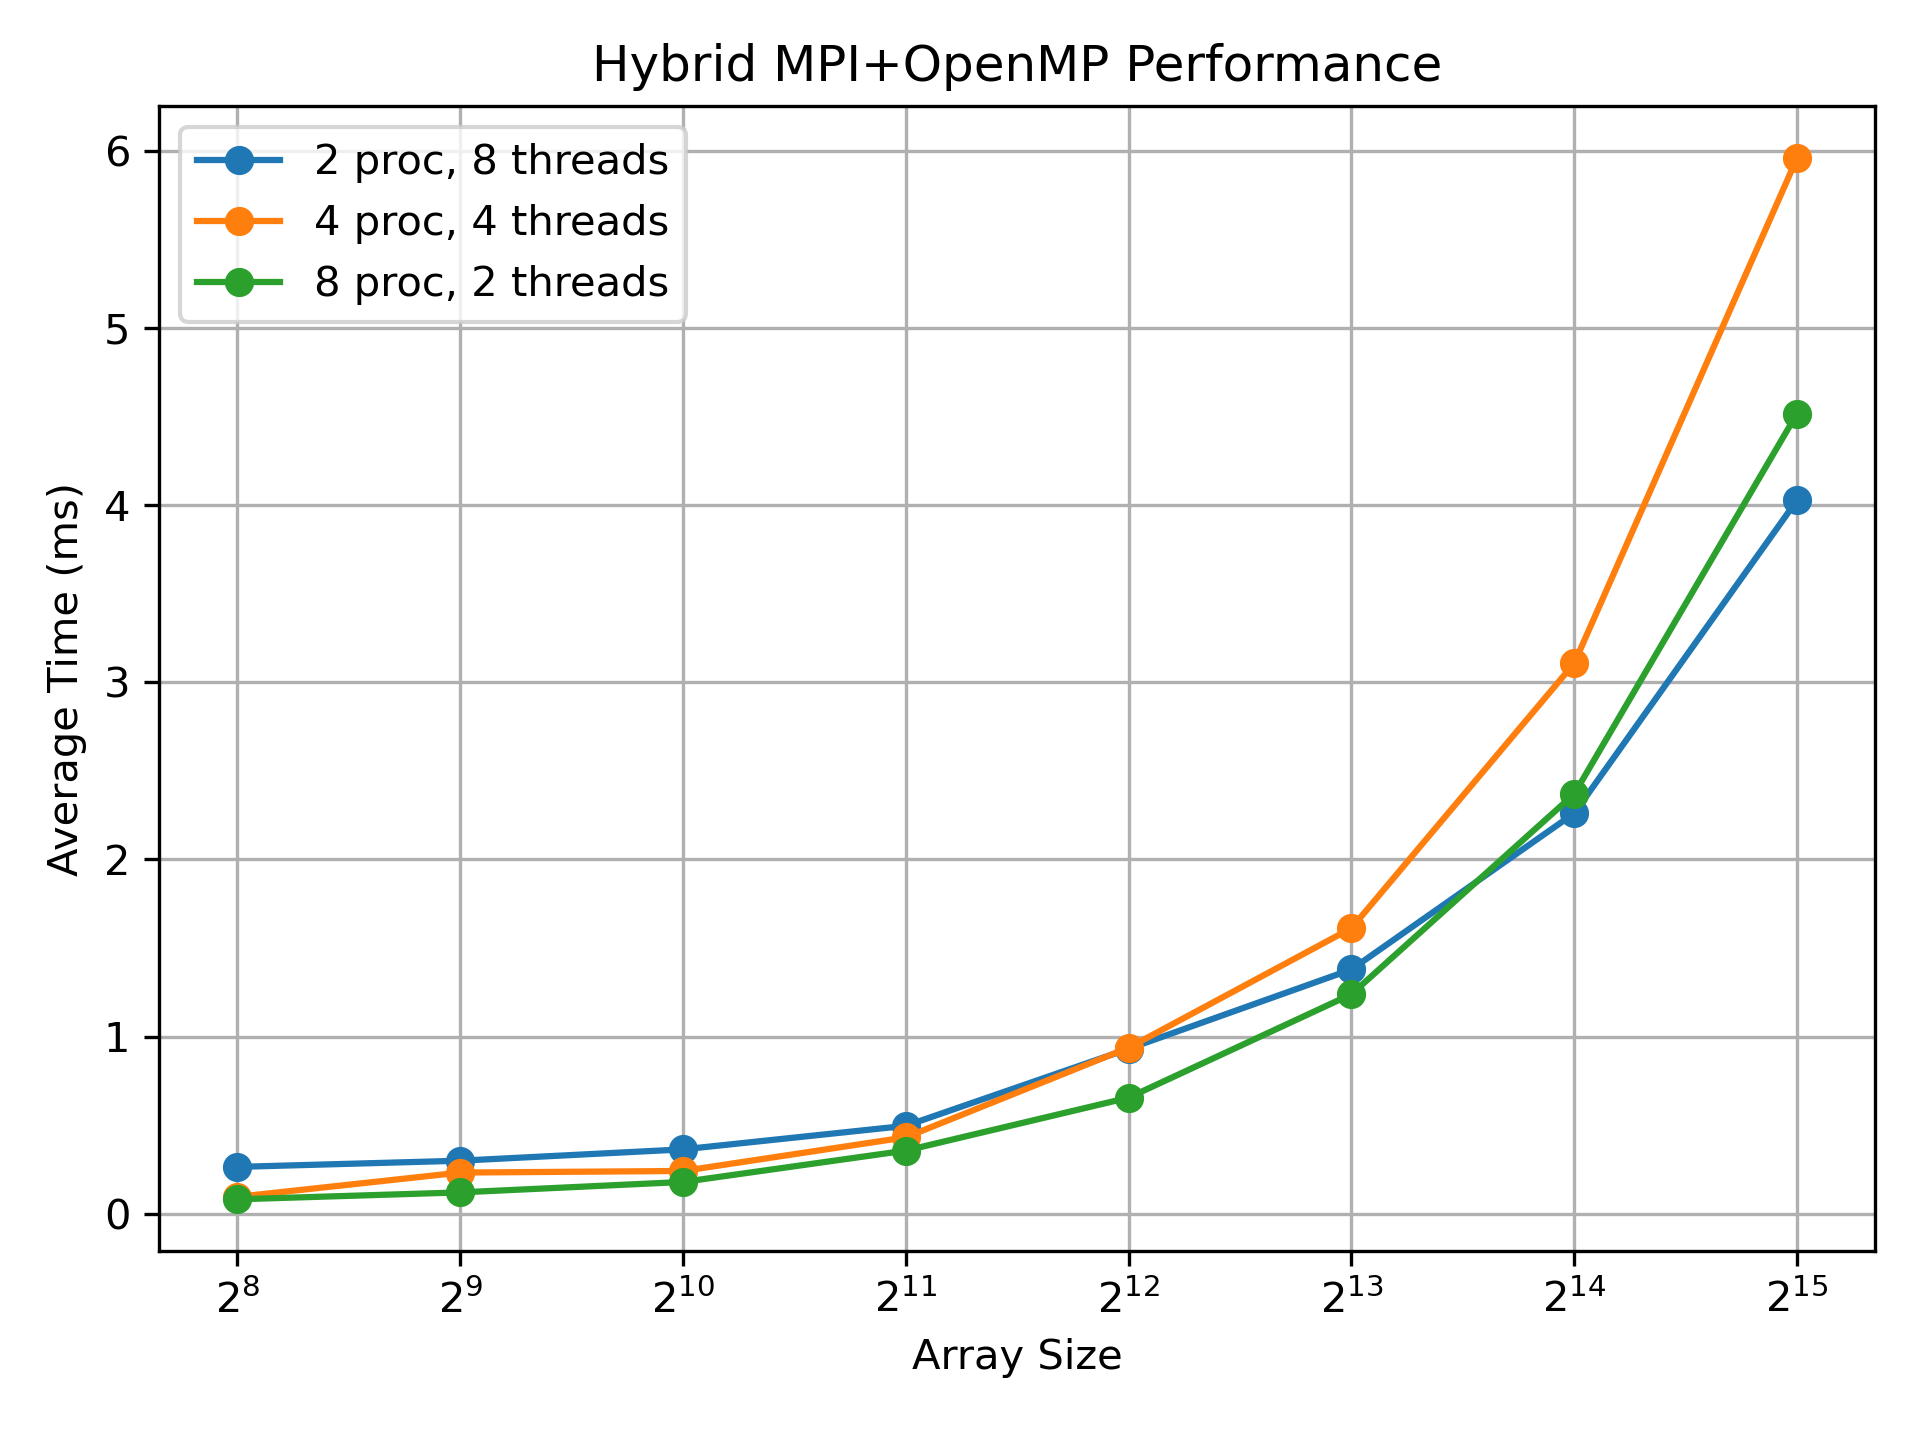
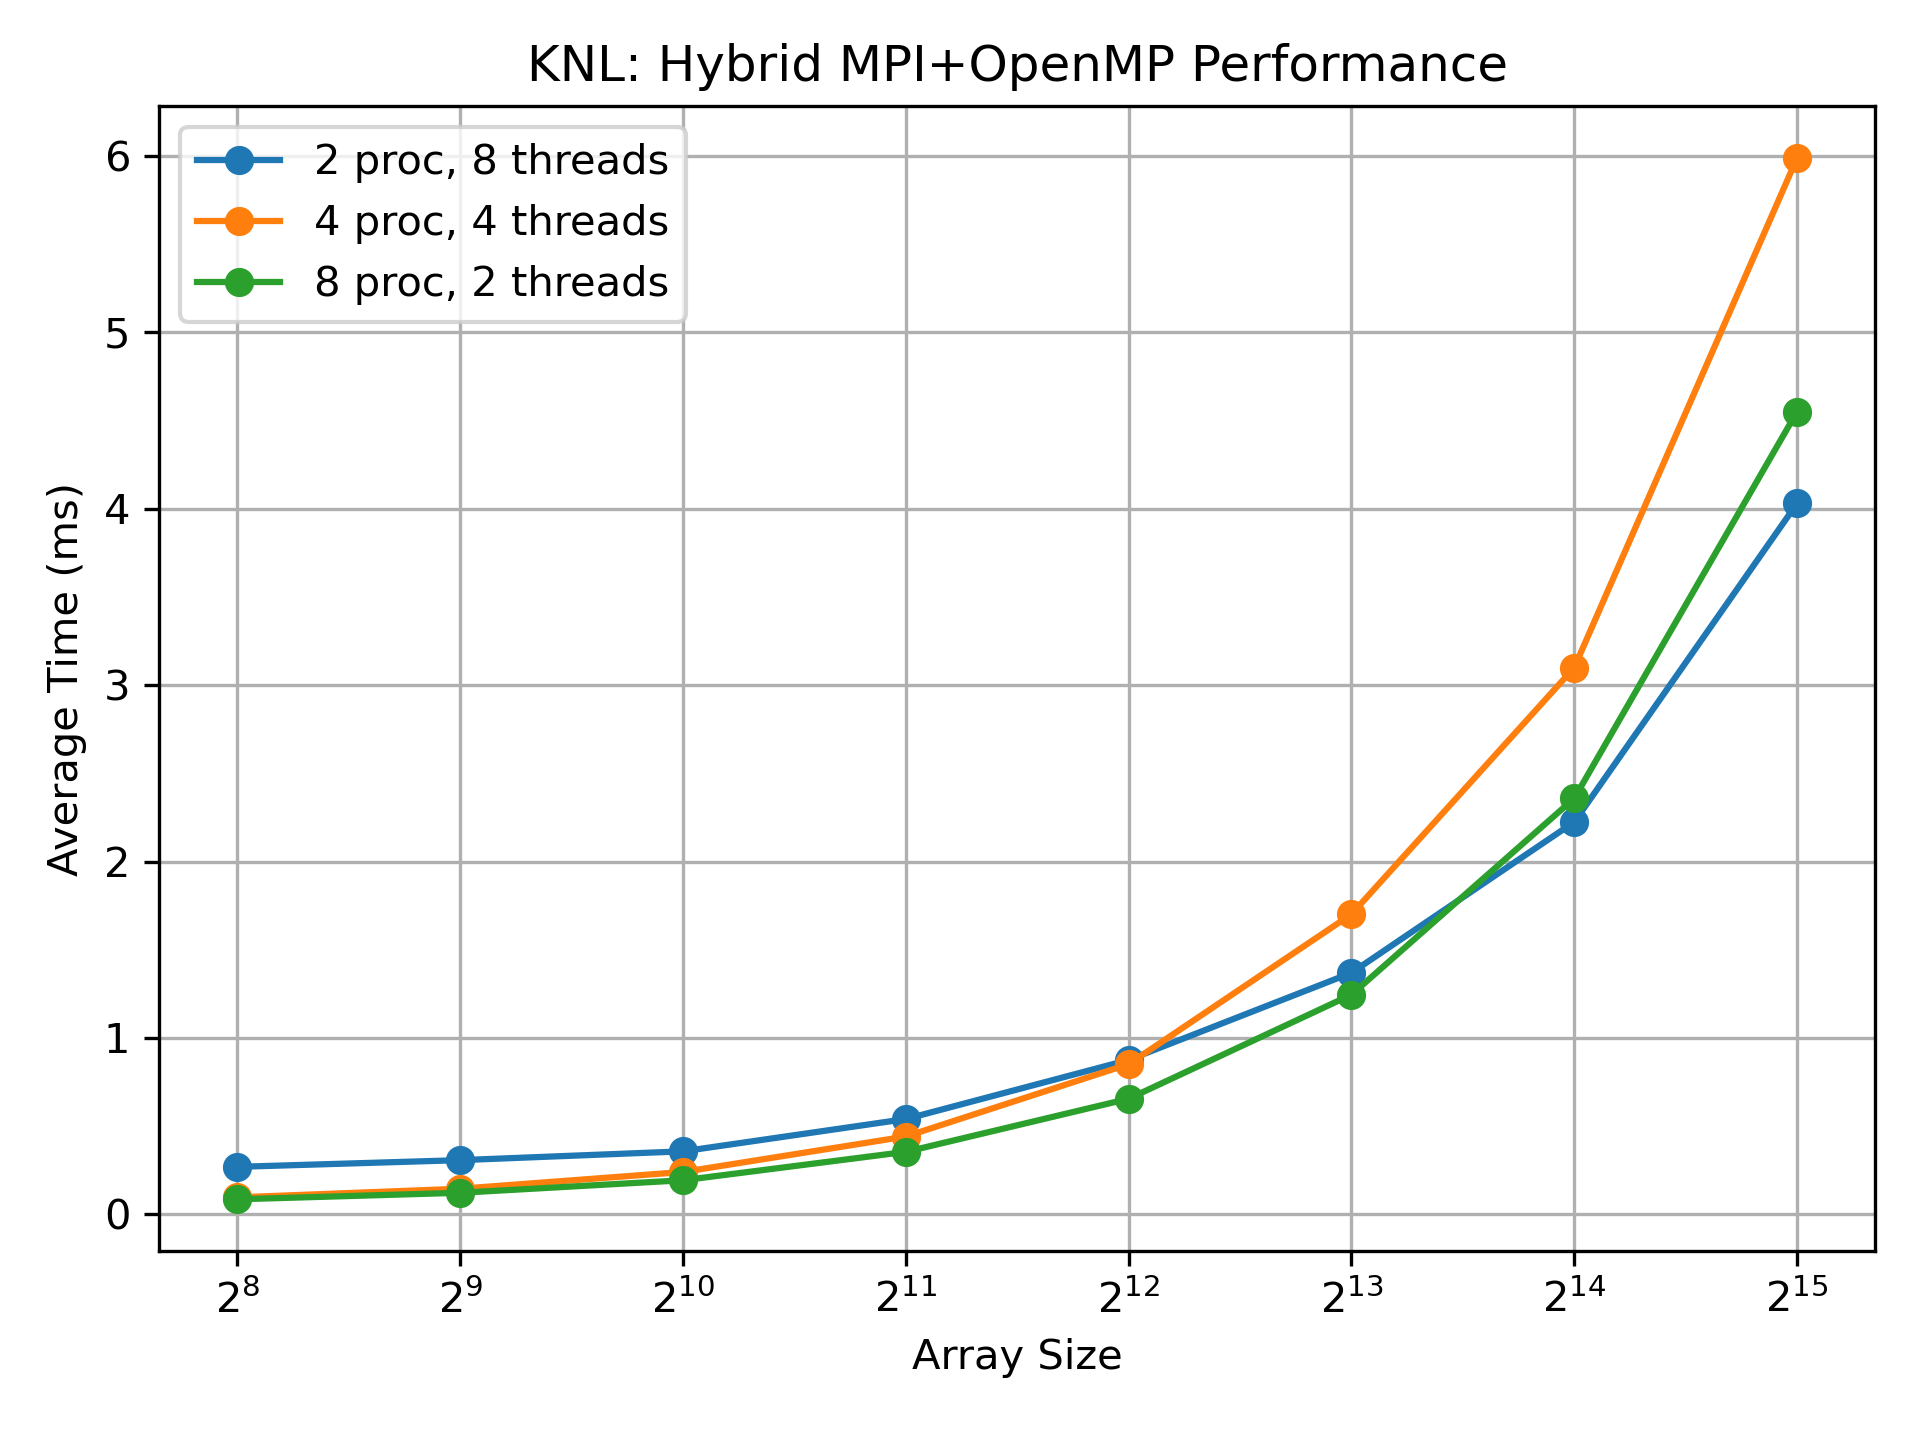
[add]

diff --git a/assignment1/report/anthony_sicoie_20214793_assignment1.tex b/assignment1/report/anthony_sicoie_20214793_assignment1.tex
@@ -105,13 +105,19 @@ Assignment 1}
 \section*{Q1:}
 
 \subsection*{Code:}
+
+Code Blocks \ref{q1:mpi}, \ref{q1:openmp}, and \ref{q1:pthread} present the question 1 code using MPI, OpenMP, and Pthreads respectively to print basic "Hello World" messages.
+The output for the code can be found in the Log Sub Section in Code Blocks \ref{q1:mpilog}, \ref{q1:openmplog}, and \ref{q1:pthreadlog}.
+
 \lstinputlisting[language=C, caption=\centering{MPI code for question 1}, label={q1:mpi}]{../q1/mpi.c}
 \lstinputlisting[language=C, caption=\centering{OpenMP code for question 1}, label={q1:openmp}]{../q1/openmp.c}
 \lstinputlisting[language=C, caption=\centering{Pthread code for question 1}, label={q1:pthread}]{../q1/pthread.c}
 
 \subsection*{Logs:}
-All code was run with 5 processes/threads, though any number can be set via the Makefile \texttt{make runall n=<number\_of\_threads/processes>} directive. 
-% This can be seen in the Code Block \ref{a:make} of the appendix where the makefile code is provided
+All code was run with 5 processes/threads, though any number can be set via the \texttt{Makefile} \texttt{make runall n=<number\_of\_threads/processes>} directive. 
+This can be seen in the Code Block \ref{a:make} of the appendix where the makefile code is provided.
+This is the \texttt{Makefile} template that all other questions also followed, with appropriate changes based on the code requirements for each one.
+
 \lstinputlisting[language=sh, caption=\centering{MPI output for question 1}, label={q1:mpilog}]{../q1/mpi.log}
 \lstinputlisting[language=sh, caption=\centering{OpenMP output for question 1}, label={q1:openmplog}]{../q1/openmp.log}
 \lstinputlisting[language=sh, caption=\centering{Pthread output for question 1}, label={q1:pthreadlog}]{../q1/pthread.log}
@@ -119,6 +125,9 @@ All code was run with 5 processes/threads, though any number can be set via the 
 \section*{Q2:}
 
 \subsection*{Code:}
+Code Blocks \ref{q2:mpi}, \ref{q2:openmp}, and \ref{q2:pthread} present the question 2 code using MPI, OpenMP, and Pthreads respectively to compute \textit{pi}.
+The output for the code can be found in the Log Sub Section in Code Blocks \ref{q2:mpilog}, \ref{q2:openmplog}, and \ref{q2:pthreadlog}.
+
 \lstinputlisting[language=C, caption=\centering{MPI code for question 2}, label={q2:mpi}]{../q2/mpi.c}
 \lstinputlisting[language=C, caption=\centering{OpenMP code for question 2}, label={q2:openmp}]{../q2/openmp.c}
 \lstinputlisting[language=C, caption=\centering{Pthread code for question 2}, label={q2:pthread}]{../q2/pthread.c}
@@ -129,16 +138,20 @@ All code was run with 5 processes/threads, though any number can be set via the 
 \lstinputlisting[language=sh, caption=\centering{Pthread output for question 2}, label={q2:pthreadlog}]{../q2/pthread.log}
 
 \section*{Q3:}
-
 \subsection*{Code:}
+Code Block \ref{q3:openmp} presents the question 3 code using OpenMP to compute the sum of 1000 numbers.
+The output for the code can be found in the Log Sub Section in Code Block \ref{q3:openmplog}.
+
 \lstinputlisting[language=C, caption=\centering{OpenMP code for question 3}, label={q3:openmp}]{../q3/openmp.c}
 
 \subsection*{Logs:}
 \lstinputlisting[language=sh, caption=\centering{OpenMP output for question 3}, label={q3:openmplog}]{../q3/openmp.log}
 
 \section*{Q4:}
-
 \subsection*{Code:}
+Code Block \ref{q4:mpi} presents the question 4 code using MPI to perform send operations in a unidirectional ring of 8 processes.
+The output for the code can be found in the Log Sub Section in Code Block \ref{q4:mpilog}, however it is worth noting that the code is modular and can function with more or less than 8 processes.
+
 \lstinputlisting[language=C, caption=\centering{MPI code for question 4}, label={q4:mpi}]{../q4/mpi.c}
 
 \subsection*{Logs:}
@@ -147,6 +160,9 @@ All code was run with 5 processes/threads, though any number can be set via the 
 \section*{Q5:}
 
 \subsection*{Code:}
+Code Block \ref{q5:mpi} presents the question 5 code using MPI to represent a 3D Mesh.
+The output for the code can be found in the Log Sub Section in Code Block \ref{q5:mpilog}, however it is worth noting that the code is modular and can function with more than 8 processes so long as they are cubes.
+
 \lstinputlisting[language=C, caption=\centering{MPI code for question 5}, label={q5:mpi}]{../q5/mpi.c}
 
 \subsection*{Logs:}
@@ -155,35 +171,129 @@ All code was run with 5 processes/threads, though any number can be set via the 
 \section*{Q6:}
 
 \subsection*{Code:}
+Code Block \ref{q6:mpi} presents the question 6 code using MPI to do a ring-based scatter leveraging \texttt{MPI\_Pack} and \texttt{MPI\_Unpack}.
+The output for the code can be found in the Log Sub Section in Code Block \ref{q6:mpilog}.
+
 \lstinputlisting[language=C, caption=\centering{MPI code for question 6}, label={q6:mpi}]{../q6/mpi.c}
 
 \subsection*{Logs:}
 \lstinputlisting[language=sh, caption=\centering{MPI output for question 6}, label={q6:mpilog}]{../q6/mpi.log}
 
 \section*{Q7:}
-\subsection*{Analysis:}
-
 
 \subsection*{Code:}
+Code Blocks \ref{q7:mpi}, \ref{q7:openmp}, \ref{q7:pthread}, and \ref{q7:hybrid} present the question 7 code using MPI, OpenMP, Pthreads, and a Hybrid MPI+OpenMP implementation respectively to find the min in an array.
+Of note is the hybrid code, which allows the user to vary the array size via a command line argument and also handles timing as explained in the Analysis Sub Section.
+The output for the code can be found in the Log Sub Section in Code Blocks \ref{q7:mpilog}, \ref{q7:openmplog}, and \ref{q7:pthreadlog} with the exception of the hybrid model, which for the sake of brevity is omitted.
+
 \lstinputlisting[language=C, caption=\centering{MPI code for question 7}, label={q7:mpi}]{../q7/mpi.c}
 \lstinputlisting[language=C, caption=\centering{OpenMP code for question 7}, label={q7:openmp}]{../q7/openmp.c}
 \lstinputlisting[language=C, caption=\centering{Pthread code for question 7}, label={q7:pthread}]{../q7/pthread.c}
 \lstinputlisting[language=C, caption=\centering{Hybrid (MPI+OpenMP) code for question 7}, label={q7:hybrid}]{../q7/hybrid.c}
 
+\subsection*{Analysis:}
+
+\begin{figure*}
+\centering
+\begin{subfigure}[t]{0.48\textwidth}
+  \centering
+    \includegraphics[width=\textwidth]{./images/knlq7.png}
+  \caption{Varied process$\times$thread configurations run on the KNL server}\label{fig:knlq7}
+\end{subfigure}%
+\hfill
+\begin{subfigure}[t]{0.48\textwidth}
+  \centering
+    \includegraphics[width=\textwidth]{./images/localq7.png}
+  \caption{Varied process$\times$thread configurations run locally}\label{fig:localq7}
+\end{subfigure}%
+\caption{Figures depicting the duration in seconds associated with varying process$\times$thread configurations on KNL server and local system}
+\label{fig:q7}
+\end{figure*}
+
+Figures \ref{fig:knlq7} and \ref{fig:localq7} show the performance of numerous process and thread configurations (2 processes with 8 threads, 4 processes with 4 threads, and 8 processes with 2 threads) on the KNL system as well as my local system.
+The figures compare the performance as the size of the array scales exponentially following a log base 2 pattern, with the smallest size being $2^8$ and the largest being $2^{15}$.
+The tests were run via the \texttt{run.sh} script present in the Appendix in Code Block \ref{a:runq7}.
+The script varied the array sizes and the process/thread configuration.
+The code presented in Code Block \ref{q7:hybrid} iterated through the loop 100 times and retrieved the average time via \texttt{MPI\_Wtime()}; the timer overhead was also deducted accordingly.
+As is expected, as the array size increases, all iterations take longer.
+I extended this simulation locally to see how it would perform as my machine is capable of producing results quicker, and once the array size reaches anything beyond $2^{17}$, the differences are largely indistinguishable.
+The plot of that data can be seen in Figure \ref{fig:bigq7}.
+Despite this, these plots do point towards the fact that the implementations favouring MPI processes (8 processes by 2 threads and 4 processes by 4 threads) are more efficient at smaller array sizes as can be seen between data points $x=2^8$ and $x=2^{12}$.
+This may be due to the fact that the OpenMP directive incurs additional overhead when compared to the associated MPI overhead.
+
+\begin{figure*}
+\centering
+    \includegraphics[width=\textwidth]{./images/bigq7.png}
+\caption{Graph depicting the duration in seconds associated with varying process$\times$thread configurations on my local machine}
+\label{fig:bigq7}
+\end{figure*}
+
 \subsection*{Logs:}
 \lstinputlisting[language=sh, caption=\centering{MPI output for question 7}, label={q7:mpilog}]{../q7/mpi.log}
 \lstinputlisting[language=sh, caption=\centering{OpenMP output for question 7}, label={q7:openmplog}]{../q7/openmp.log}
 \lstinputlisting[language=sh, caption=\centering{Pthread output for question 7}, label={q7:pthreadlog}]{../q7/pthread.log}
-\lstinputlisting[language=sh, caption=\centering{Hybrid (MPI+OpenMP) output for question 7}, label={q7:hybridlog}]{../q7/hybrid.log}
+% \lstinputlisting[language=sh, caption=\centering{Hybrid (MPI+OpenMP) output for question 7}, label={q7:hybridlog}]{../q7/hybrid.log}
 
 \section*{Q8:}
-\subsection*{Analysis:}
 
 \subsection*{Code:}
-\lstinputlisting[language=C, caption=\centering{MPI code for question 8 static assignment}, label={q8:mpiStatic}]{../q8/mpi_static.c}
-\lstinputlisting[language=C, caption=\centering{MPI code for question 8 dynamic assignment}, label={q8:mpiStatic}]{../q8/mpi_dynamic.c}
+Code Blocks \ref{q8:mpiS} and \ref{q8:mpiD} present the question 8 code using MPI to calculate elements within the Mandelbrot set via static and dynamic scheduling respectively.
+The output of the code can be seen in Figures \ref{fig:q8S} and \ref{fig:q8D}, with the code that generated the coloured images themselves in Code Block \ref{q8:mpidisp}.
+Analysis of the performance of the code is in the Sub Section Analysis.
+\lstinputlisting[language=C, caption=\centering{MPI code for question 8 static assignment}, label={q8:mpiS}]{../q8/mpi_static.c}
+\lstinputlisting[language=C, caption=\centering{MPI code for question 8 dynamic assignment}, label={q8:mpiD}]{../q8/mpi_dynamic.c}
+\lstinputlisting[language=C, caption=\centering{MPI code for question 8 dynamic assignment}, firstline=110, lastline=125, label={q8:mpidisp}]{../q8/mandelbrot-display.c}
 
-\subsection*{Output:}
+
+\begin{figure*}
+\centering
+\begin{subfigure}[t]{0.48\textwidth}
+  \centering
+    \includegraphics[width=\textwidth]{./images/static.png}
+  \caption{static mandelbrot set coloured output}\label{fig:q8s}
+\end{subfigure}%
+\hfill
+\begin{subfigure}[t]{0.48\textwidth}
+  \centering
+    \includegraphics[width=\textwidth]{./images/dynamic.png}
+  \caption{dynamic mandelbrot set coloured output}\label{fig:q8d}
+\end{subfigure}%
+\caption{figures depicting the coloured mandelbrot set at 800$\times$800 resolution}
+\label{fig:outq8}
+\end{figure*}
+
+\subsection*{Analysis:}
+
+Similar to question 7, the code was run both on the KNL system and on my own local machine.
+The graphs visible in Figure \ref{fig:q8S} and \ref{fig:q8D} were generated using the scripts in the Appendix. 
+Code Block \ref{a:runq8} of the Appendix was used to run numerous iterations with varying process counts, and Code Block \ref{a:plotq8} of the Appendix was used to plot the data.
+The performance on the KNL system strays slightly from what would be expected, with the sequential code given to us in the assignment always taking longer than the MPI code. 
+This is unexpected, as it should take less time than the statically or dynamically scheduled code utilizing 2 processes given there is overhead in the form of MPI initialization and communication.
+The expected result can be seen in the locally run code in Figure \ref{fig:q8S}, where the baseline sequential code only performs better when the process count is 2.
+Afterwards, the performance is as expected, where the more processes there are, the better the performance is. 
+This holds true on both the KNL system and my local machine until 32 processes are reached at which point my system no longer has physical threads to assign to the processes, and as such, performance becomes worse when MPI begins oversubscription.
+I am surprised to see that on both systems, the dynamically scheduled code is more performant all the time, I was expecting the 800 \texttt{MPI\_Send/Recv)()} operations used in dynamic scheduling to incur a larger overhead and thus perform worse than the statically assigned tasks, given that regardless of scheduling method, single \texttt{MPI\_Ints} are being sent.
+It seems unlikely that this is an analysis error, as for each process count, 100 iterations were conducted.
+It is more likely that this can be explained by the extra \texttt{malloc} and \texttt{realloc} operations leveraged by the static code, along with the possibility that different threads are much faster than others.
+I would have been interested to see what varied work bundles beyond single rows would have resulted in for the dynamically scheduled code.
+
+\begin{figure*}
+\centering
+\begin{subfigure}[t]{0.48\textwidth}
+  \centering
+    \includegraphics[width=\textwidth]{./images/knlq8.png}
+  \caption{KNL performance graph}\label{fig:q8S}
+\end{subfigure}%
+\hfill
+\begin{subfigure}[t]{0.48\textwidth}
+  \centering
+    \includegraphics[width=\textwidth]{./images/localq8.png}
+  \caption{Local performance graph}\label{fig:q8D}
+\end{subfigure}%
+\caption{Graphs depicting difference in performance between sequential (1 process) and statically\/dynamically scheduled MPI code at a variety of process counts (2-32)}
+\label{fig:q8}
+\end{figure*}
+
 
 \section*{Q9:}
 
@@ -193,12 +303,13 @@ All code was run with 5 processes/threads, though any number can be set via the 
 \subsection*{Log:}
 \lstinputlisting[language=sh, caption=\centering{MPI output for question 9}, label={q9:mpilog}]{../q9/mpi.log}
 
-\begin{appendices}\label{appendix}
+\begin{appendices}\label{Appendix}
   \lstinputlisting[language=make, caption=\centering{Makefile template used for all code}, label={a:make}]{../q1/makefile}
-  \lstinputlisting[language=make, caption=\centering{Bash script used to vary process, thread, and array size for question 7}, label={a:make}]{../q7/run.sh}
-  \lstinputlisting[language=make, caption=\centering{Python script used to plot results for question 7}, label={a:make}]{../q7/results.py}
-  \lstinputlisting[language=make, caption=\centering{Bash script used to process counts for question 8}, label={a:make}]{../q8/run.sh}
-  \lstinputlisting[language=make, caption=\centering{Python script used to plot results for question 9}, label={a:make}]{../q8/results.py}
+  \lstinputlisting[language=make, caption=\centering{Bash script used to vary process, thread, and array size for question 7}, label={a:runq7}]{../q7/run.sh}
+  \lstinputlisting[language=make, caption=\centering{Python script used to plot results for question 7}, label={a:plotq7}]{../q7/results.py}
+  \lstinputlisting[language=make, caption=\centering{Bash script used to process counts for question 8}, label={a:runq8}]{../q8/run.sh}
+  \lstinputlisting[language=make, caption=\centering{Python script used to plot results for question 8}, label={a:plotq8}]{../q8/results.py}
+
 \end{appendices}
 
 \newpage

diff --git a/assignment1/q8/results.py b/assignment1/q8/results.py
@@ -20,14 +20,17 @@ plt.plot(dynamic["processes"], dynamic["time"], marker="s", label="Dynamic")
 
 # Horizontal line for sequential
 plt.axhline(
-    y=seq_time_ms, color="r", linestyle="--", label=f"Sequential ({seq_time_ms:.2f} ms)"
+    y=seq_time_ms,
+    color="r",
+    linestyle="--",
+    label=f"Baseline (Sequential) ({seq_time_ms:.2f} ms)",
 )
 
 # Log2 x-scale and labels
 plt.xscale("log", base=2)
 plt.xlabel("Number of Processes")
 plt.ylabel("Time (ms)")
-plt.title("Hybrid MPI Performance")
+plt.title("Local: Static vs Dynamic vs Sequential MPI Performance")
 plt.legend()
 plt.grid(True, which="both", ls="--", lw=0.5)
 

diff --git a/assignment1/q7/results.py b/assignment1/q7/results.py
@@ -21,9 +21,10 @@ for (p, t), subset in df.groupby(["processes", "threads"]):
 
 plt.xlabel("Array Size")
 plt.ylabel("Average Time (ms)")
-plt.title("Hybrid MPI+OpenMP Performance")
+plt.title("Local: Hybrid MPI+OpenMP Performance")
 plt.legend()
 plt.grid(True)
+plt.yscale("log", base=2)
 plt.xscale("log", base=2)
 plt.tight_layout()
 plt.savefig("../report/images/q7.png", dpi=300)
